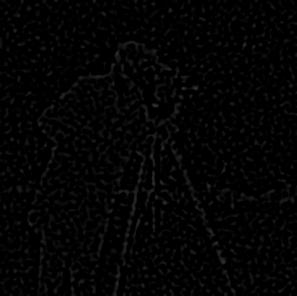
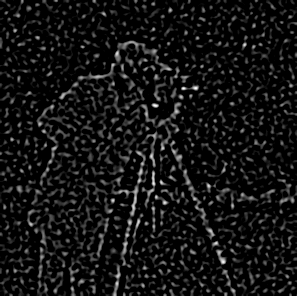
WIP add sobel and robert

Changed region(s): [[0.0, 0.0, 1.0, 1.0], [0.6061, 0.152, 0.6364, 0.1824]]

diff --git a/templates/index.html b/templates/index.html
@@ -131,7 +131,9 @@
             ><b>Pilih Metode Deteksi :</b></label
           >
           <select name="method" id="method" class="form-select">
+            <option value="sobel">Sobel</option>
             <option value="prewitt">Prewitt</option>
+            <option value="roberts">Roberts</option>
             <option value="log">LoG</option>
             <option value="compass">Operator Kompas</option>
           </select>

diff --git a/app.py b/app.py
@@ -1,7 +1,9 @@
 from flask import Flask, render_template, request
 import os
 import cv2
+from sobel import sobel
 from prewitt import prewitt
+from robert import roberts_edge_detection
 from log_filter import LoGFilter
 from compass import compass_operator
 
@@ -24,11 +26,24 @@ def index():
         img_path = os.path.join(UPLOAD_FOLDER, img_file.filename)
         img_file.save(img_path)
 
-        if method == "prewitt":
-            original, prewitt_x, combined = prewitt(img_path)
+        if method == "sobel":
+            original, sobel_x, sobel_y, magnitude = sobel(img_path)
+            results.append(("Original", '/' + save_image("sobel_orig.png", original)))
+            results.append(("Sobel X", '/' + save_image("sobel_x.png", sobel_x)))
+            results.append(("Sobel Y", '/' + save_image("sobel_y.png", sobel_y)))
+            results.append(("Magnitude", '/' + save_image("sobel_mag.png", magnitude)))
+
+        elif method == "prewitt":
+            original, prewitt_x, prewitt_y, combined = prewitt(img_path)
             results.append(("Original", '/' + save_image("prewitt_orig.png", original)))
             results.append(("Prewitt X", '/' + save_image("prewitt_x.png", prewitt_x)))
+            results.append(("Prewitt Y", '/' + save_image("prewitt_y.png", prewitt_y)))
             results.append(("Combined", '/' + save_image("prewitt_combined.png", combined)))
+        
+        elif method == "roberts":
+            original, result = roberts_edge_detection(img_path)
+            results.append(("Original", '/' + save_image("robert_orig.png", original)))
+            results.append(("Roberts Edge", '/' + save_image("robert_edge.png", result)))
 
         elif method == "log":
             original, filtered = LoGFilter(img_path)
@@ -36,10 +51,24 @@ def index():
             results.append(("LoG Filter", '/' + save_image("log_filtered.png", filtered)))
 
         elif method == "compass":
-            original, edge_maps, combined = compass_operator(img_path)
-            results.append(("Original", '/' + save_image("compass_orig.png", original)))
-            for k, v in edge_maps.items():
-                results.append((k, '/' + save_image(f"compass_{k}.png", v)))
+            from PIL import Image
+            import numpy as np
+
+            img = Image.open(img_path).convert('RGB')
+            img_array = np.array(img)
+
+            directions = [
+                'Utara', 'Timur Laut', 'Timur', 'Tenggara',
+                'Selatan', 'Barat Daya', 'Barat', 'Barat Laut'
+            ]
+
+            for dir_name in directions:
+                edge_img = compass_operator(img, dir_name)
+                edge_arr = np.array(edge_img)
+                fname = f"compass_{dir_name.replace(' ', '_').lower()}.png"
+                results.append((dir_name, '/' + save_image(fname, edge_arr)))
+
+            combined = np.array(compass_operator(img, direction='all'))
             results.append(("Gabungan", '/' + save_image("compass_combined.png", combined)))
 
     return render_template("index.html", results=results)

diff --git a/compass.py b/compass.py
@@ -1,23 +1,30 @@
 import numpy as np
 from PIL import Image
-from scipy.ndimage import convolve
+from scipy import ndimage
 
-def compass_operator(img_path):
-    img = Image.open(img_path).convert('L')
-    img_np = np.array(img)
+def compass_operator(image, direction='all'):
+    img_gray = np.array(image.convert('L')).astype(float)
 
-    kompas_kernels = {
-        'Utara':      np.array([[1, 1, 1], [1, -2, 1], [-1, -1, -1]]),
+    compass_filters = {
+        'Utara': np.array([[1, 1, 1], [1, -2, 1], [-1, -1, -1]]),
         'Timur Laut': np.array([[1, 1, 1], [-1, -2, 1], [-1, -1, 1]]),
-        'Timur':      np.array([[-1, 1, 1], [-1, -2, 1], [-1, 1, 1]]),
-        'Tenggara':   np.array([[-1, -1, 1], [-1, -2, 1], [1, 1, 1]]),
-        'Selatan':    np.array([[-1, -1, -1], [1, -2, 1], [1, 1, 1]]),
+        'Timur': np.array([[-1, 1, 1], [-1, -2, 1], [-1, 1, 1]]),
+        'Tenggara': np.array([[-1, -1, 1], [-1, -2, 1], [1, 1, 1]]),
+        'Selatan': np.array([[-1, -1, -1], [1, -2, 1], [1, 1, 1]]),
         'Barat Daya': np.array([[1, -1, -1], [1, -2, -1], [1, 1, 1]]),
-        'Barat':      np.array([[1, 1, -1], [1, -2, -1], [1, 1, -1]]),
+        'Barat': np.array([[1, 1, -1], [1, -2, -1], [1, 1, -1]]),
         'Barat Laut': np.array([[1, 1, 1], [1, -2, -1], [1, -1, -1]])
     }
 
-    edge_maps = {k: convolve(img_np, kernel, mode='reflect') for k, kernel in kompas_kernels.items()}
-    edge_combined = np.max(np.stack(list(edge_maps.values())), axis=0)
+    if direction != 'all':
+        gradient = ndimage.convolve(img_gray, compass_filters[direction])
+        gradient = np.abs(gradient)
+    else:
+        responses = []
+        for kernel in compass_filters.values():
+            response = ndimage.convolve(img_gray, kernel)
+            responses.append(response)
+        gradient = np.max(np.array(responses), axis=0)
 
-    return img_np, edge_maps, edge_combined
+    gradient = (gradient / gradient.max() * 255).astype(np.uint8)
+    return Image.fromarray(gradient)

diff --git a/robert.py b/robert.py
@@ -1,0 +1,18 @@
+import cv2
+import numpy as np
+
+def roberts_edge_detection(image_path):
+    image = cv2.imread(image_path)
+    gray = cv2.cvtColor(image, cv2.COLOR_BGR2GRAY)
+
+    kernel_x = np.array([[1, 0], [0, -1]], dtype=int)
+    kernel_y = np.array([[0, 1], [-1, 0]], dtype=int)
+
+    edge_x = cv2.filter2D(gray, -1, kernel_x)
+    edge_y = cv2.filter2D(gray, -1, kernel_y)
+
+    edge_roberts = np.sqrt(np.square(edge_x) + np.square(edge_y))
+    edge_roberts = np.clip(edge_roberts, 0, 255).astype(np.uint8)
+    edge_roberts = cv2.normalize(edge_roberts, None, 0, 255, cv2.NORM_MINMAX)
+
+    return gray, edge_roberts

diff --git a/sobel.py b/sobel.py
@@ -1,0 +1,13 @@
+import cv2
+import numpy as np
+
+def sobel(image_path):
+    image = cv2.imread(image_path, cv2.IMREAD_GRAYSCALE)
+
+    sobel_x = cv2.Sobel(image, cv2.CV_64F, 1, 0, ksize=3)
+    sobel_y = cv2.Sobel(image, cv2.CV_64F, 0, 1, ksize=3)
+
+    sobel_magnitude = cv2.magnitude(sobel_x, sobel_y)
+    sobel_magnitude = np.uint8(np.clip(sobel_magnitude, 0, 255))
+
+    return image, np.abs(sobel_x).astype(np.uint8), np.abs(sobel_y).astype(np.uint8), sobel_magnitude

diff --git a/log_filter.py b/log_filter.py
@@ -13,6 +13,8 @@ def LoGFilter(img_path, sigma=2.0):
     kernel /= np.sum(np.abs(kernel))
 
     result = cv2.filter2D(img, -1, kernel)
+    result = cv2.normalize(result, None, 0, 255, cv2.NORM_MINMAX)
     result = cv2.convertScaleAbs(result)
+
 
     return img, result

diff --git a/prewitt.py b/prewitt.py
@@ -10,4 +10,4 @@ def prewitt(img_path):
     img_y = cv2.filter2D(img, -1, kernel_y)
     combined = cv2.addWeighted(img_x, 0.5, img_y, 0.5, 0)
 
-    return img, img_x, combined
+    return img, img_x, img_y, combined
